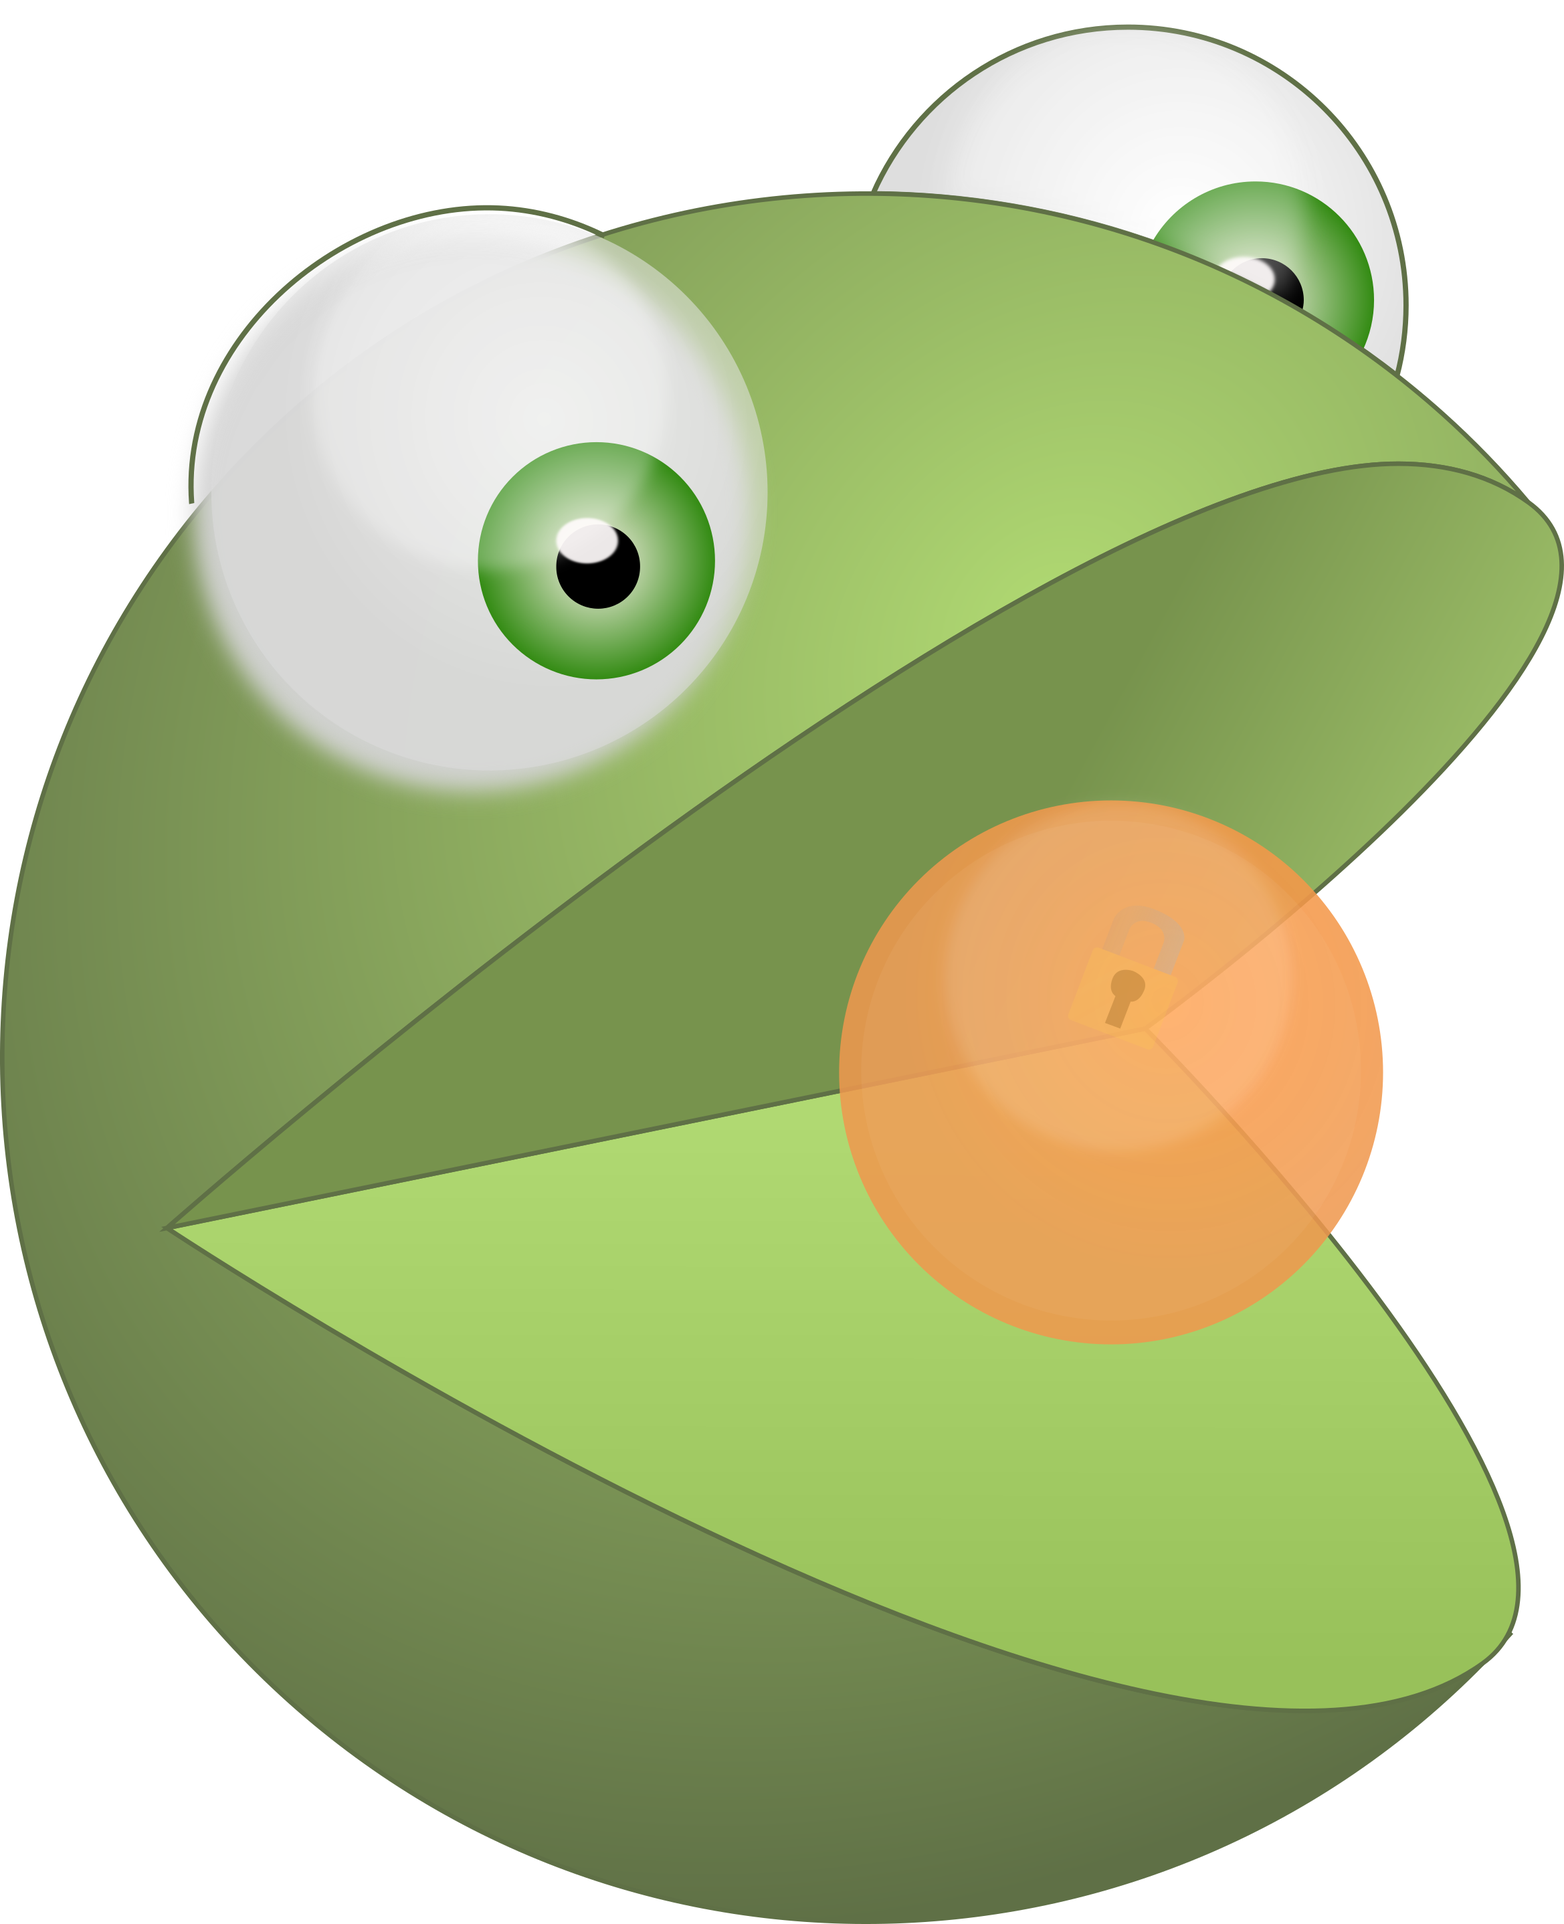
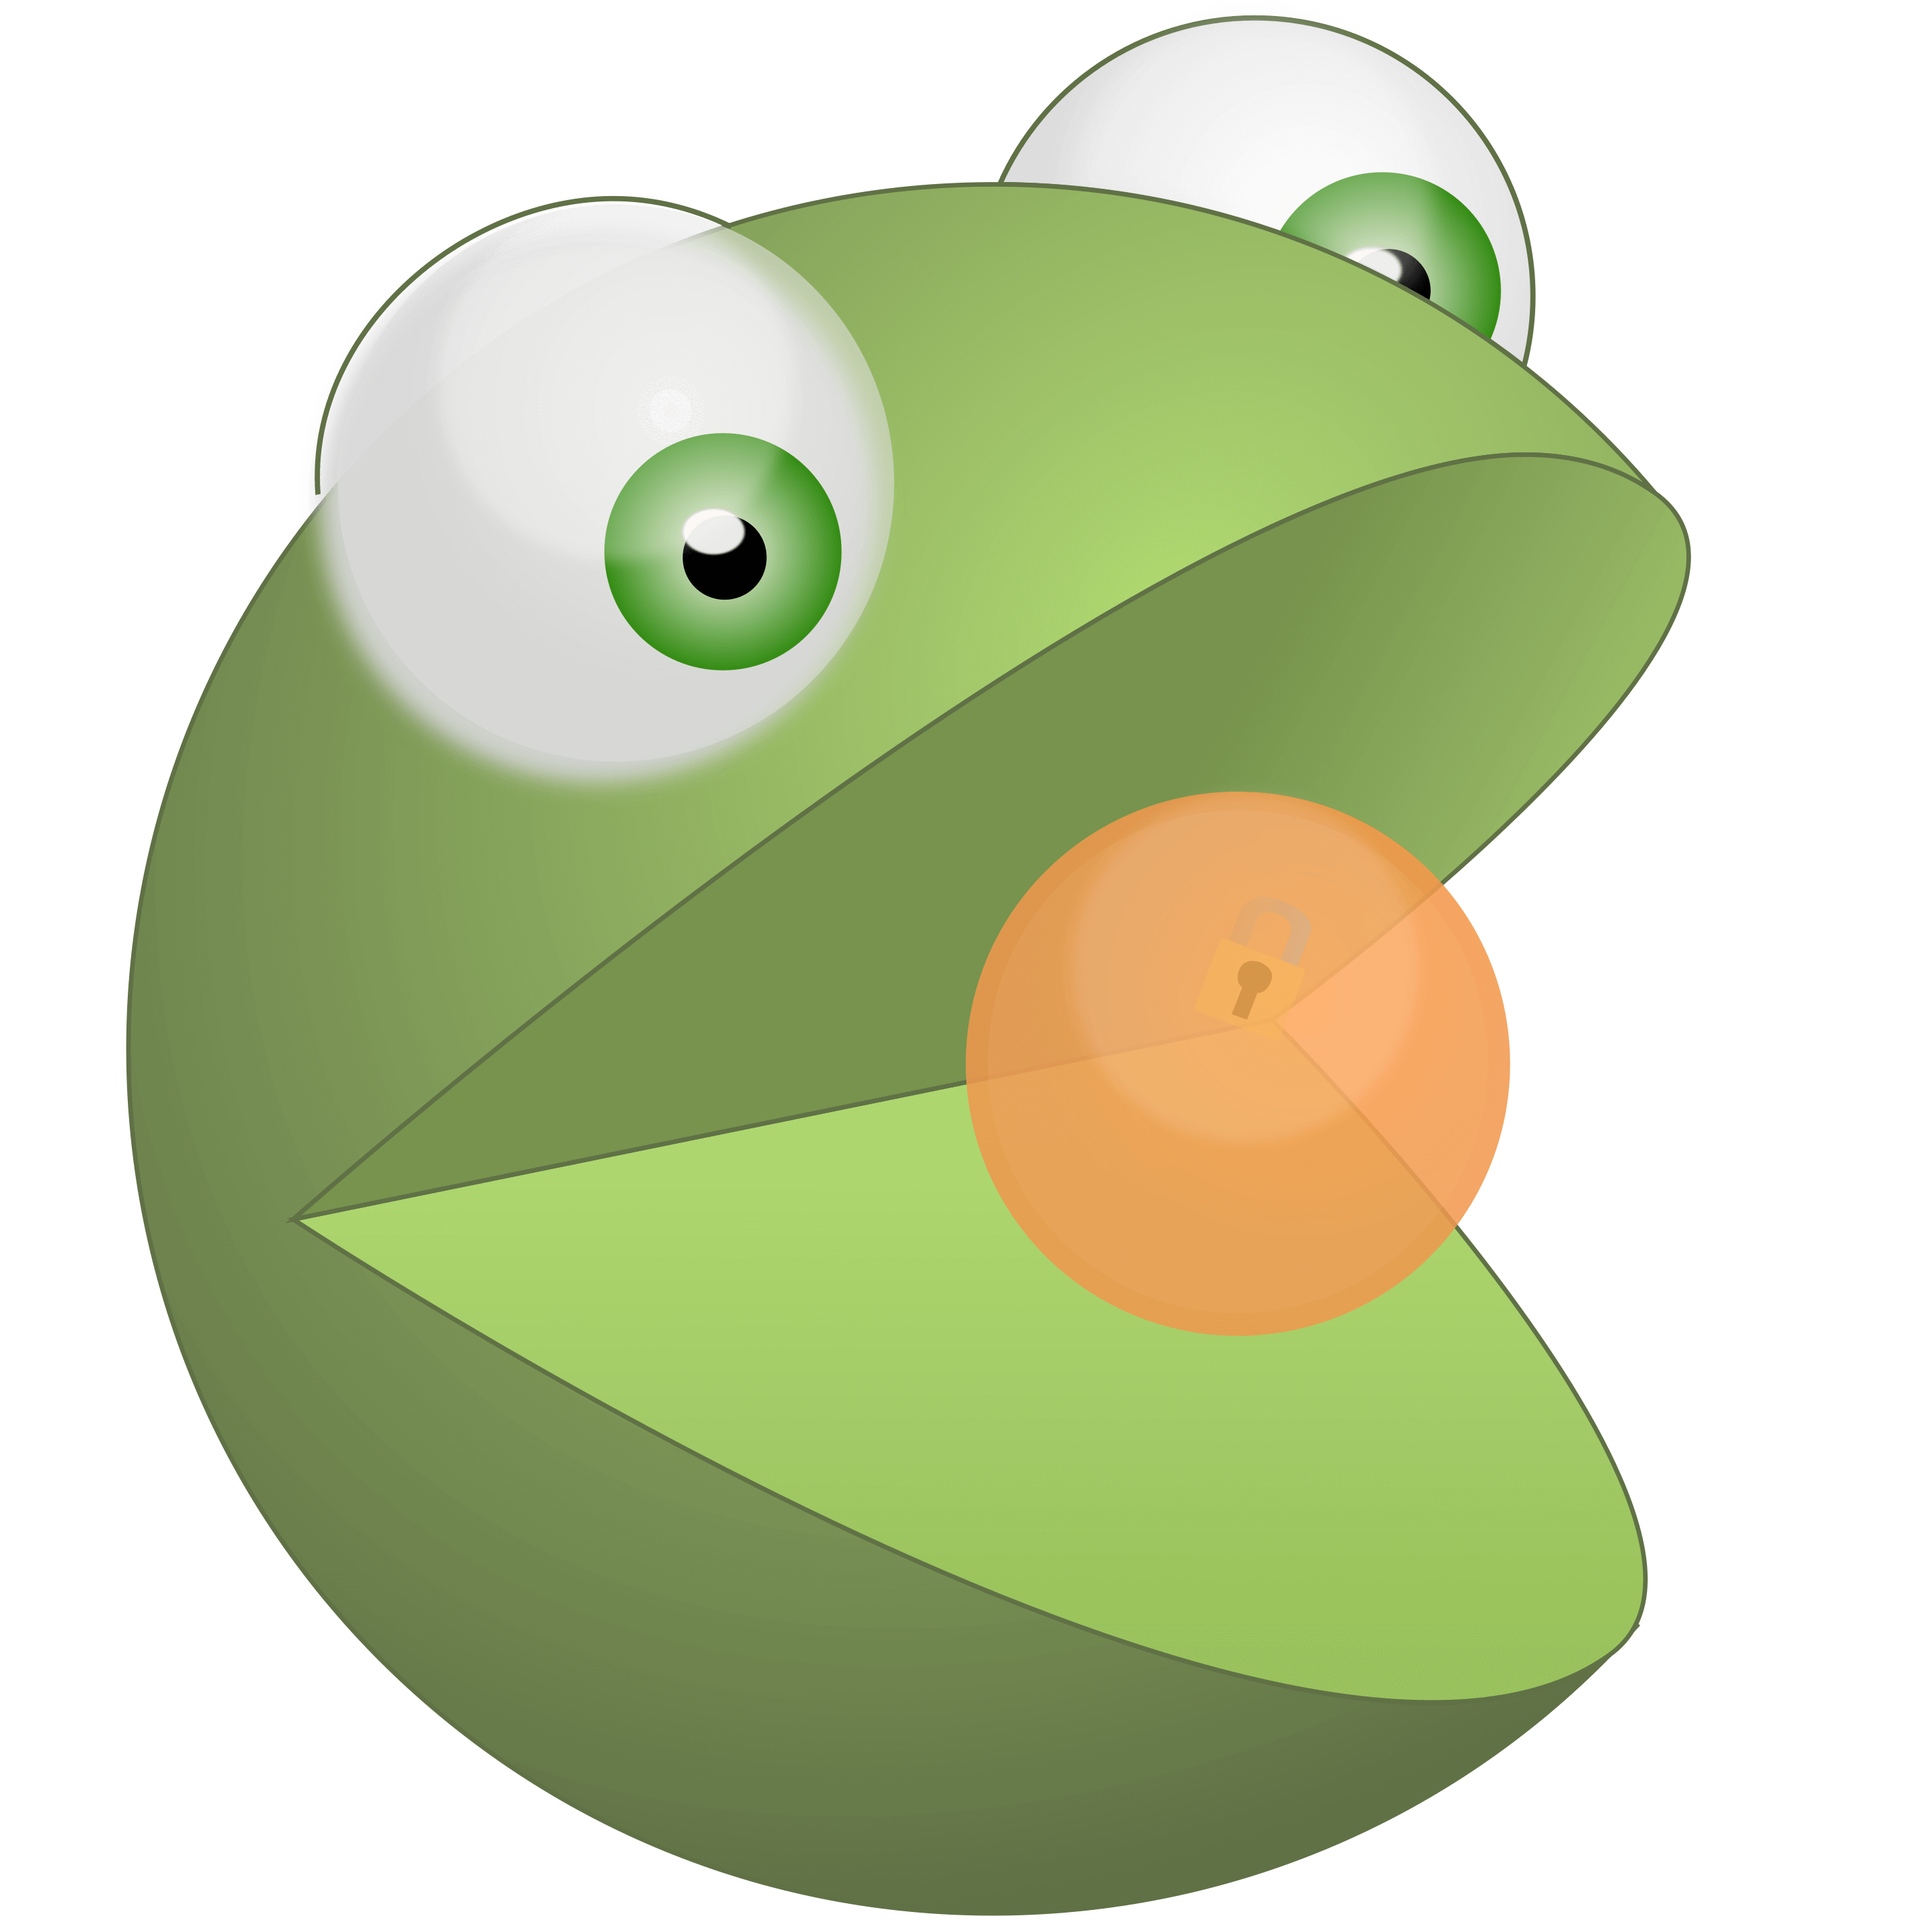
Add variants, compressed PNGs, color and more

diff --git a/LICENSE.md b/LICENSE.md
@@ -1,0 +1,17 @@
+<p xmlns:dct="http://purl.org/dc/terms/" xmlns:vcard="http://www.w3.org/2001/vcard-rdf/3.0#">
+  <a rel="license"
+     href="http://creativecommons.org/publicdomain/zero/1.0/">
+    <img src="http://i.creativecommons.org/p/zero/1.0/88x31.png" style="border-style: none;" alt="CC0" />
+  </a>
+  <br />
+  To the extent possible under law,
+  <a rel="dct:publisher"
+     href="https://github.com/rugk/avatar">
+    <span property="dct:title">rugk</span></a>
+  has waived all copyright and related or neighboring rights to
+  <span property="dct:title">avatars</span>.
+This work is published from:
+<span property="vcard:Country" datatype="dct:ISO3166"
+      content="DE" about="https://github.com/rugk/avatar">
+  Deutschland</span>.
+</p>

diff --git a/README.md b/README.md
@@ -1,0 +1,7 @@
+# Readme
+
+This just contains source files and some more stuff of my avatar.
+
+The avatar is baed on [Pacman 3D](https://openclipart.org/detail/176294/pacman-3d-by-hobermallow-176294) by [@hobermallow](https://openclipart.org/user-detail/hobermallow).
+This remix is malso available on [OpenClipArt.org](https://openclipart.org/detail/288817/green-pacman-eating-orange-balls-rugks-avatar).
+
